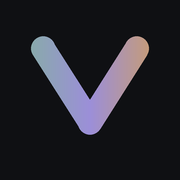
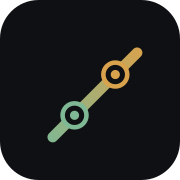
mudançadoicone

diff --git a/README.md b/README.md
@@ -1,4 +1,4 @@
-# VidaTrack — Etapa 79: Layout de Desktop (menu lateral + colunas)
+# VidaTrack — Etapa 80: Ícone do App Trocado (trilho, igual à logo nova)
 
 App único de **hábitos** e **finanças**, com telas próprias por
 módulo e compartilhamento entre usuários. Stack: **Next.js** (Vercel),
@@ -6,6 +6,28 @@ módulo e compartilhamento entre usuários. Stack: **Next.js** (Vercel),
 perfil).
 
 ## O que já está pronto
+
+**Novo nesta etapa (80) — ícone do app atualizado:**
+
+Troquei o ícone "V" antigo pelo desenho novo do trilho (mesma logo
+que fizemos pro Instagram) — em todos os tamanhos que o app usa:
+
+- `icon-192.png` e `icon-512.png` (ícone padrão)
+- `icon-maskable-512.png` (versão com margem de segurança pro
+  Android recortar em círculo, quadrado arredondado, etc., sem
+  cortar nada importante)
+- `apple-touch-icon.png` (ícone do iPhone/iPad)
+- `favicon.ico` (aba do navegador)
+
+O `manifest.json` já apontava pros mesmos nomes de arquivo, então não
+precisei mexer em mais nada — só troquei o conteúdo das imagens.
+
+Não precisa rodar SQL — é arquivo de imagem só.
+
+**Repare que depois do deploy, o ícone pode demorar pra atualizar**
+no seu celular — isso é cache do próprio Android/navegador guardando
+o ícone antigo. Se não atualizar sozinho em alguns dias, o jeito mais
+rápido é desinstalar e reinstalar o app.
 
 **Novo nesta etapa (79) — o app agora se adapta pra tela de computador:**
 
@@ -1988,7 +2010,8 @@ versão Android via Capacitor está descrita na seção específica acima.
 76. (sem mudanças de código — investigação/confirmação de cache)
 77. Cache travando telas de editar (causa real)
 78. Excluir conta direto, sem precisar da lixeira
-79. Layout de desktop (menu lateral + colunas) — **você está aqui**
+79. Layout de desktop (menu lateral + colunas)
+80. Ícone do app trocado (trilho) — **você está aqui**
 
 **Importante:** a partir da Etapa 11, convidar alguém pra compartilhar
 um item exige que `SUPABASE_SERVICE_ROLE_KEY` esteja configurada no
